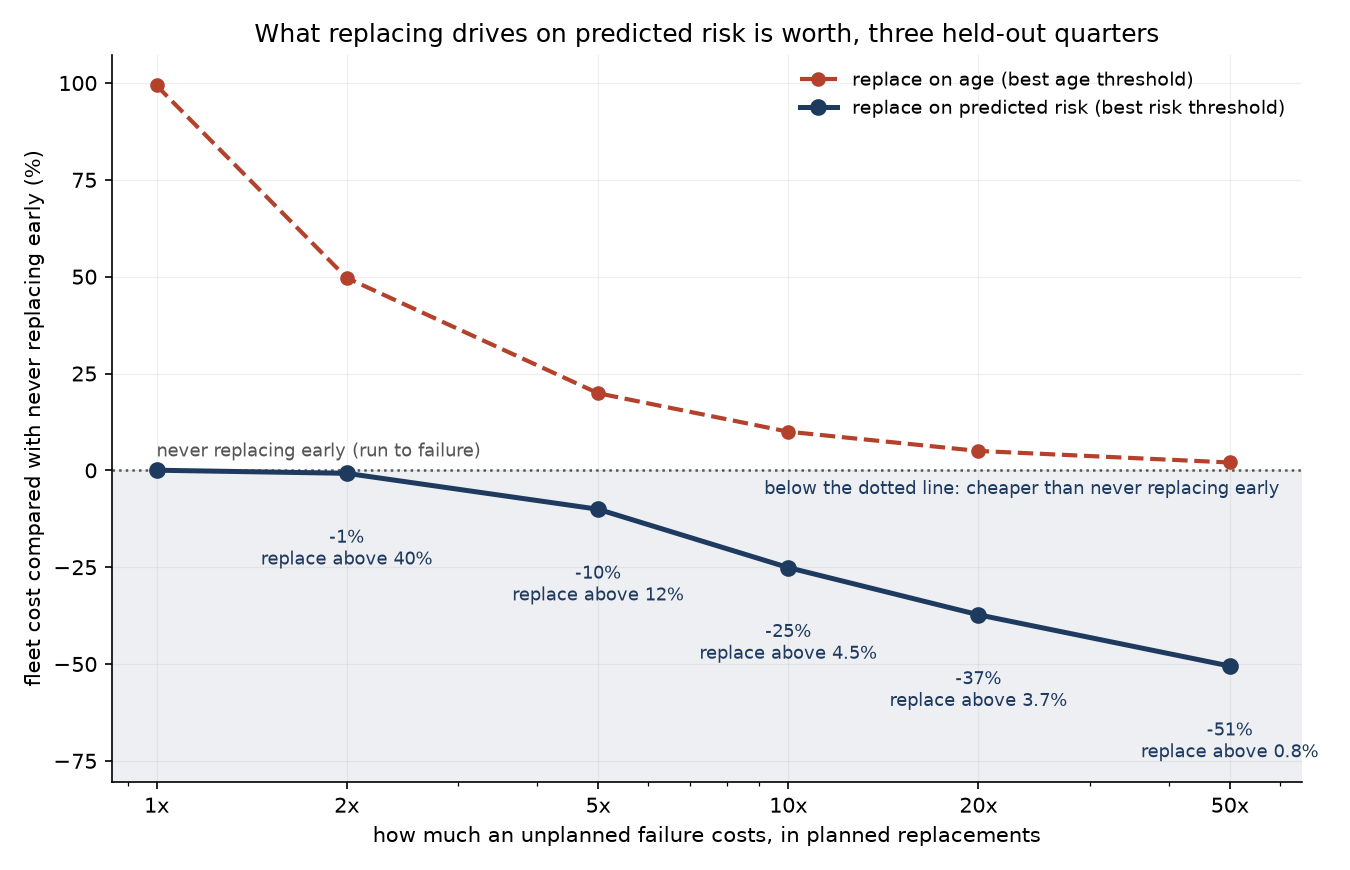
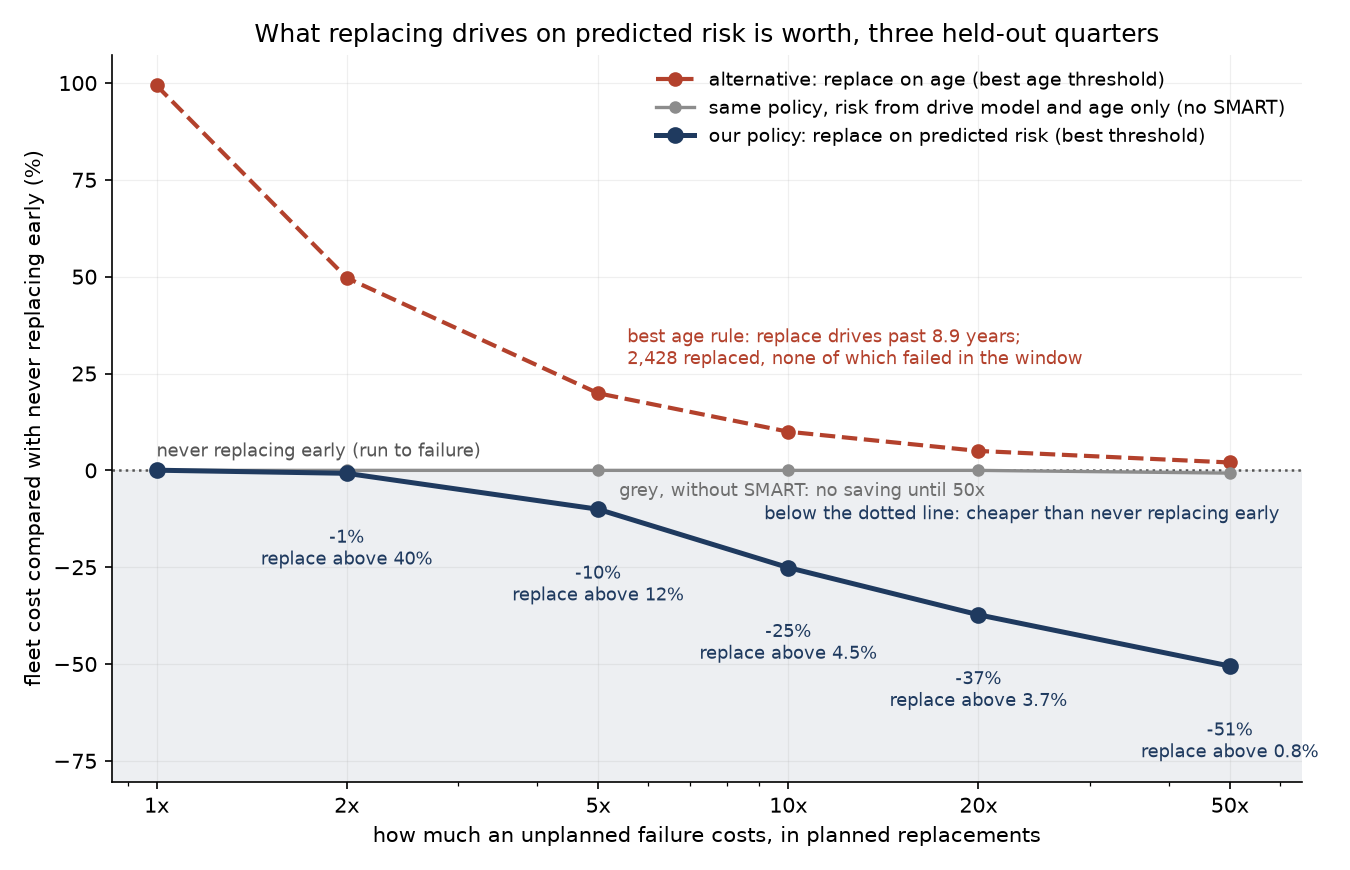
Show the no-SMART comparison in the headline figure and README

Changed region(s): [[0.4978, 0.0621, 0.9644, 0.1862], [0.28, 0.5276, 0.9644, 0.6207], [0.4667, 0.3724, 0.8089, 0.4345]]

diff --git a/scripts/s9_decision_layer.py b/scripts/s9_decision_layer.py
@@ -163,7 +163,8 @@ def cost_rate(res: dict, k: float) -> float:
     return (res["replacements"] + k * res["failures"]) / res["served_years"]
 
 
-def plot_value_vs_cost_ratio(best: pd.DataFrame, path: Path) -> None:
+def plot_value_vs_cost_ratio(best: pd.DataFrame, path: Path,
+                             best_b1: pd.DataFrame | None = None) -> None:
     """The README's first figure: what each policy is worth at each cost ratio.
 
     Each risk-based point is labelled with its saving and the threshold behind it,
@@ -178,7 +179,7 @@ def plot_value_vs_cost_ratio(best: pd.DataFrame, path: Path) -> None:
                [float(sub.loc[k, "parameter"]) for k in K_GRID]
 
     risk_y, risk_tau = series("risk-based")
-    age_y, _ = series("age-based")
+    age_y, age_thr = series("age-based")
 
     fig, ax = plt.subplots(figsize=(9, 5.8))
     lo = min(risk_y) - 30
@@ -186,9 +187,22 @@ def plot_value_vs_cost_ratio(best: pd.DataFrame, path: Path) -> None:
     ax.axhspan(lo, 0, color=navy, alpha=0.08, lw=0)
     ax.axhline(0.0, color="#555555", lw=1.2, ls=":")
     ax.plot(K_GRID, age_y, "--", marker="o", ms=6, lw=2, color=rust,
-            label="replace on age (best age threshold)")
+            label="alternative: replace on age (best age threshold)")
+    if best_b1 is not None:
+        sub = best_b1[best_b1["policy"] == "risk-based"].set_index("k")
+        b1_y = [float(sub.loc[k, "vs_run_to_failure_pct"]) for k in K_GRID]
+        ax.plot(K_GRID, b1_y, "-", marker="o", ms=5, lw=1.6, color="#8C8C8C",
+                label="same policy, risk from drive model and age only (no SMART)")
+        ax.text(5.4, -3.0, "grey, without SMART: no saving until 50x", fontsize=8.5,
+                color="#6E6E6E", ha="left", va="top")
     ax.plot(K_GRID, risk_y, "-", marker="o", ms=7, lw=2.4, color=navy,
-            label="replace on predicted risk (best risk threshold)")
+            label="our policy: replace on predicted risk (best threshold)")
+    years = age_thr[K_GRID.index(10)] / (24 * DAYS_PER_YEAR)
+    n_age = int(best[best["policy"] == "age-based"]["replacements"].iloc[0])
+    ax.annotate(f"best age rule: replace drives past {years:.1f} years;\n"
+                f"{n_age:,} replaced, none of which failed in the window",
+                (K_GRID[2], age_y[2]), xytext=(14, 14), textcoords="offset points",
+                fontsize=8.5, color=rust)
     for k, y, tau in zip(K_GRID, risk_y, risk_tau):
         if k == 1:
             continue
@@ -197,7 +211,7 @@ def plot_value_vs_cost_ratio(best: pd.DataFrame, path: Path) -> None:
                     ha="center", va="top", fontsize=8.5, color=navy)
     ax.text(1.0, 2.5, "never replacing early (run to failure)", fontsize=8.5,
             color="#555555", va="bottom")
-    ax.text(60, -2.5, "below the dotted line: cheaper than never replacing early", fontsize=8.5,
+    ax.text(60, -9.0, "below the dotted line: cheaper than never replacing early", fontsize=8.5,
             color=navy, ha="right", va="top")
     ax.set_xscale("log")
     ax.set_xticks(K_GRID)
@@ -232,9 +246,12 @@ def main() -> int:
     reports.mkdir(parents=True, exist_ok=True)
     figures.mkdir(parents=True, exist_ok=True)
 
+    b1_path = reports / "policy_b1" / "s9_best_policy_by_k.csv"
+    best_b1 = pd.read_csv(b1_path) if b1_path.exists() else None
+
     if args.figure_only:
         best = pd.read_csv(reports / "s9_best_policy_by_k.csv")
-        plot_value_vs_cost_ratio(best, figures / "s9_value_vs_cost_ratio.png")
+        plot_value_vs_cost_ratio(best, figures / "s9_value_vs_cost_ratio.png", best_b1)
         print(f"redrew {figures / 's9_value_vs_cost_ratio.png'}")
         return 0
 
@@ -406,7 +423,7 @@ def main() -> int:
     plt.close(fig)
 
     # 3. the actual headline: best achievable cost rate against the cost ratio
-    plot_value_vs_cost_ratio(best, figures / "s9_value_vs_cost_ratio.png")
+    plot_value_vs_cost_ratio(best, figures / "s9_value_vs_cost_ratio.png", best_b1)
 
     # ------------------------------------------------------------------ headline
     print("\n================ headline ================")

diff --git a/README.md b/README.md
@@ -15,9 +15,10 @@ replacement policy below therefore relies on the ranking, not on the probabiliti
 
 ![What predictive replacement is worth](figures/s9_value_vs_cost_ratio.png)
 
-*Each blue point is the saving at one cost ratio, labelled with the risk threshold
-that achieves it; the red line is the best that replacing on age can do. The same
-numbers are in the table below.*
+*Blue is the policy: each point is the saving at one cost ratio, labelled with the
+risk threshold that achieves it. Grey is the same policy fed a risk that knows only
+drive model and age, and red is the best that replacing on age can do. The blue
+numbers are also in the table below.*
 
 **The answer.** If an unplanned failure costs ten times as much as a planned
 replacement, replacing drives on predicted risk lowers the simulated fleet cost
@@ -28,10 +29,13 @@ gives up at most 1.7 percentage points compared with hindsight over the same lat
 quarters. The saving also depends on how long the policy is simulated: one quarter
 at a time it is 8 to 19% at a cost ratio of 10, so the 25% is not a fixed rate.
 
-**The value comes from the telemetry.** The same policy run on the drive-model-and-age
-model alone saves nothing up to a cost ratio of 20, and 0.7% at 50. Replacing on age
-never pays at any cost ratio tested: the least costly age rule replaces the 2,428
-oldest drives, none of which fails in the window.
+**The value comes from the telemetry.** To test this, the policy was run a second
+time with the SMART data taken out, so its risk score knew only each drive's model
+and age. Without SMART it saves nothing at any cost ratio up to 20, and 0.7% at 50,
+against 25% at 10 and 51% at 50 with it: the grey line in the figure, flat on zero
+(`reports/policy_b1/`). Replacing on age never pays at any cost ratio tested: the red
+line, always above zero. The least costly age rule replaces drives past 8.9 years of
+power-on time, 2,428 of them, none of which fails in the window.
 
 **When to replace a drive.** When its predicted risk of failing in the next 30 days
 rises above a threshold that depends on how expensive a failure is compared with a
@@ -377,8 +381,8 @@ py scripts\s6_b3_seagate.py
 py scripts\s6b_design_check.py
 py scripts\s7_horizon_check.py
 py scripts\s8_m2_boosted.py       # writes the held-out predictions
-py scripts\s9_decision_layer.py   # requires s8
 py scripts\s9_decision_layer.py --risk-col risk_b1 --reports reports\policy_b1 --figures figures\policy_b1
+py scripts\s9_decision_layer.py   # the main policy; draws the grey line from the run above
 py scripts\s10_summary_figures.py
 py scripts\s11_prospective_policy.py
 py scripts\s11b_window_check.py
